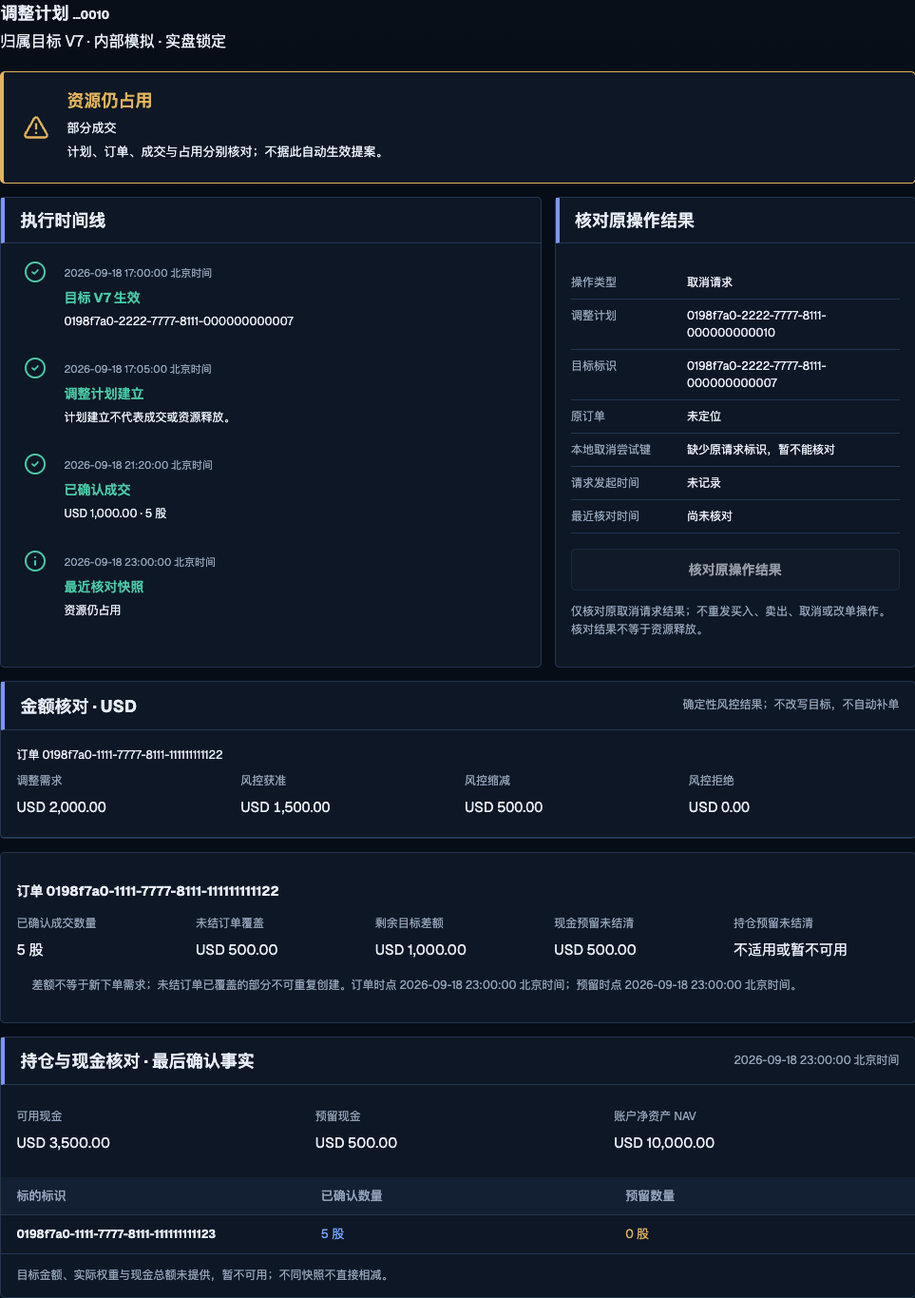
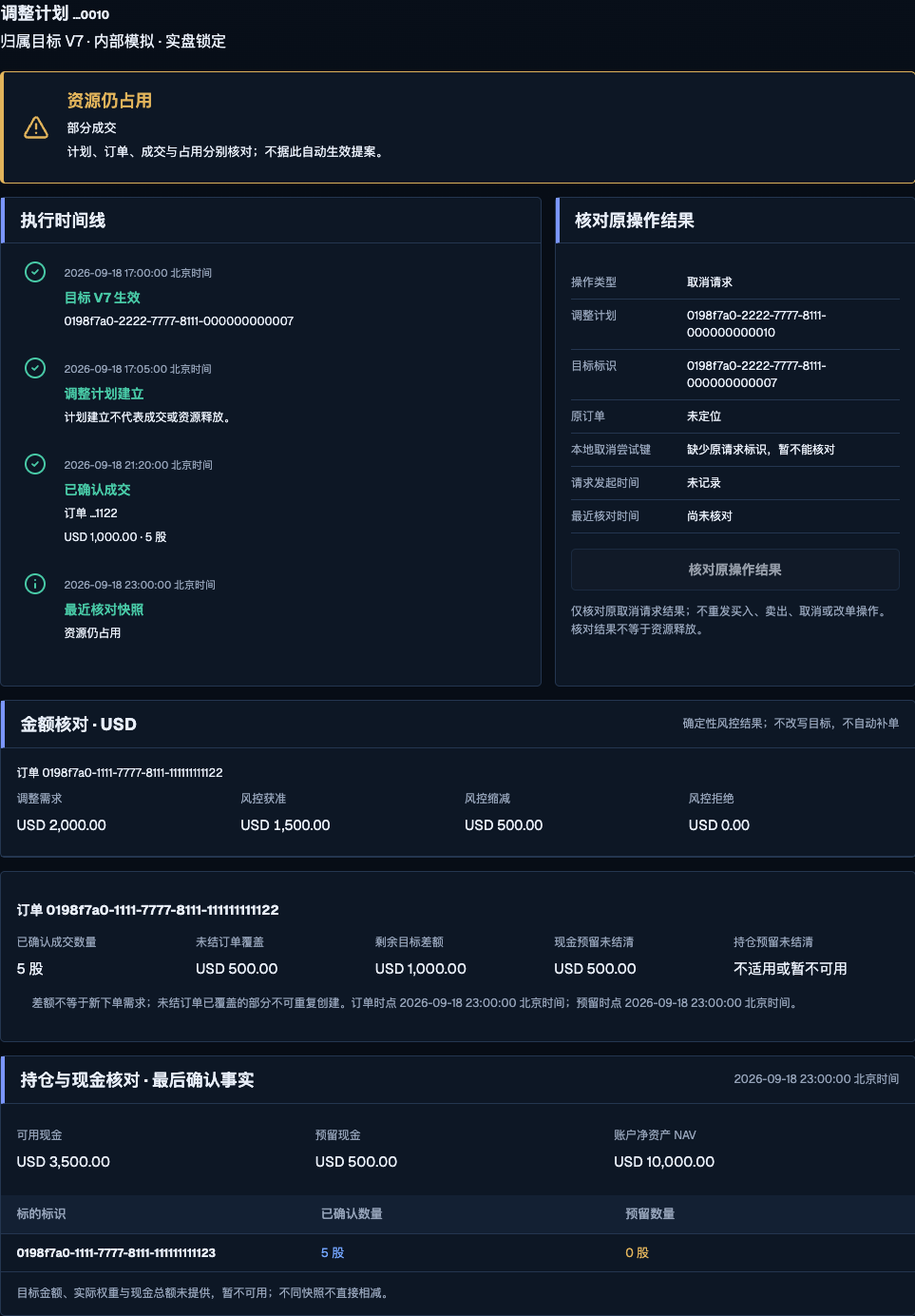
fix: preserve portfolio readback identity and ordering

diff --git a/app/components/paper/adjustment-plan.tsx b/app/components/paper/adjustment-plan.tsx
@@ -3,6 +3,7 @@ import { AlertTriangle, CheckCircle2, Info } from "lucide-react";
 import { useEffect, useState } from "react";
 import type { components } from "../../lib/generated/schema";
 import { statusLabel } from "../../lib/display-labels";
+import { formatPercent } from "../../lib/display-format";
 import { formatPaperDecimal, formatPaperTime } from "../order-timeline";
 import { CancelResultCheck, type CancelAttempt } from "./cancel-result-check";
 type Plan = components["schemas"]["PaperPlanResponse"];
@@ -12,6 +13,7 @@ const money = (value: string | null): string => value === null ? "暂不可用" 
 
 export function AdjustmentPlanLoader({ refreshVersion = 0, attempt = null }: { refreshVersion?: number; attempt?: CancelAttempt | null }): React.ReactElement {
   const [plan, setPlan] = useState<Plan | null>(null);
+  const [currentTarget, setCurrentTarget] = useState<Summary["current_target"]>(null);
   const [message, setMessage] = useState("正在读取调整计划");
   useEffect(() => {
     const controller = new AbortController();
@@ -21,36 +23,46 @@ export function AdjustmentPlanLoader({ refreshVersion = 0, attempt = null }: { r
         let id = requestedId;
         if (!id) {
           const response = await fetch("/api/v1/paper/management/portfolio", { cache: "no-store", signal: controller.signal });
-          if (response.status === 401 || response.status === 403) { if (!controller.signal.aborted) { setPlan(null); setMessage("无权读取调整计划"); } return; }
+          if (response.status === 401 || response.status === 403) { if (!controller.signal.aborted) { setPlan(null); setCurrentTarget(null); setMessage("无权读取调整计划"); } return; }
           if (!response.ok) throw new Error("summary unavailable");
           const envelope = await response.json() as { data: Summary };
           id = envelope.data.occupying_plan?.batch_id ?? null;
+          if (!controller.signal.aborted) setCurrentTarget(id ? null : envelope.data.current_target);
         }
         if (!id) { if (!controller.signal.aborted) { setPlan(null); setMessage("暂无资源占用中的调整计划；历史记录见下方。"); } return; }
         const response = await fetch(`/api/v1/paper/plans/${encodeURIComponent(id)}`, { cache: "no-store", signal: controller.signal });
-        if (response.status === 401 || response.status === 403) { if (!controller.signal.aborted) { setPlan(null); setMessage("无权读取调整计划"); } return; }
+        if (response.status === 401 || response.status === 403) { if (!controller.signal.aborted) { setPlan(null); setCurrentTarget(null); setMessage("无权读取调整计划"); } return; }
         if (!response.ok) throw new Error("plan unavailable");
         const envelope = await response.json() as { data?: Plan };
         if (!envelope.data || envelope.data.batch_id !== id || !Array.isArray(envelope.data.plan?.items)) throw new Error("plan mismatch");
-        if (!controller.signal.aborted) { setPlan(envelope.data); setMessage(""); }
+        if (!controller.signal.aborted) { setPlan(envelope.data); setCurrentTarget(null); setMessage(""); }
       } catch { if (!controller.signal.aborted) setMessage("调整计划暂不可用；已有事实仅为最后已知记录。"); }
     }
     void read(); return () => controller.abort();
   }, [refreshVersion]);
-  return <>{message ? <p className="pm-footnote">{message}</p> : null}{plan ? <AdjustmentPlan plan={plan} attempt={attempt} /> : null}</>;
+  return <>{message ? <p className="pm-footnote">{message}</p> : null}{plan ? <AdjustmentPlan plan={plan} attempt={attempt} /> : currentTarget ? <CurrentTargetDetail target={currentTarget} /> : null}</>;
+}
+
+function CurrentTargetDetail({ target }: { target: NonNullable<Summary["current_target"]> }): React.ReactElement {
+  return <section className="pm-panel" aria-label="当前目标详情">
+    <header className="pm-panel__heading"><h2>当前目标 V{target.version_seq}</h2><p>当前无资源占用计划；不据此推断无需交易、计划已结清或目标已达成。</p></header>
+    <table className="pm-table" aria-label="当前目标确定性配置"><thead><tr><th scope="col">标的标识</th><th scope="col">目标权重</th></tr></thead><tbody>{target.targets.map((row) => <tr key={row.instrument_id}><th scope="row" title={row.instrument_id}>标的 …{row.instrument_id.slice(-4)}</th><td data-label="目标权重">{formatPercent(row.target_weight)}</td></tr>)}<tr><th scope="row">现金</th><td data-label="目标现金权重">{formatPercent(target.cash_weight)}</td></tr></tbody></table>
+    <div className="pm-panel__body"><p>目标生效时点 {formatPaperTime(target.as_of)}</p><p className="pm-id">目标完整标识：{target.target_version_id}</p><p>权重分母：本目标完整配置。实际账户是独立快照，不计算目标金额或实际权重，也不跨快照相减。</p><a className="button button--quiet" href="#paper-actual-facts">查看独立实际账户事实</a></div>
+  </section>;
 }
 
 export function AdjustmentPlan({ plan, attempt = null }: { plan: Plan; attempt?: CancelAttempt | null }): React.ReactElement {
   const boundAttempt = attempt && plan.plan.items.some((item) => item.order_id === attempt.orderId) ? attempt : null;
+  const fills = plan.plan.items.flatMap((item) => item.confirmed_fills.map((fill) => ({ fill, orderId: item.order_id }))).sort((a, b) => Date.parse(a.fill.as_of) - Date.parse(b.fill.as_of));
   return <section className="pm-stack pm-adjustment" aria-label="当前调整计划">
     <header className="pm-plan-title"><h2>调整计划 <span className="pm-id" title={plan.batch_id}>…{plan.batch_id.slice(-4)}</span></h2><p>{plan.target ? `归属目标 V${plan.target.version_seq}` : "历史记录/未关联目标"} · 内部模拟 · 实盘锁定</p></header>
     <div className="pm-conclusion" role="note" aria-label="计划与资源结论"><AlertTriangle size={28} aria-hidden="true" /><div><h3>{occupationLabel(plan.plan.occupation_state)}</h3><p>{plan.plan.items.map((item) => item.status ? statusLabel(item.status) : "订单结果未知").join(" · ") || "未提供订单事实"}{boundAttempt ? " · 原取消结果待核对" : ""}</p><p>计划、订单、成交与占用分别核对；不据此自动生效提案。</p></div></div>
-    <div className="pm-plan-grid"><section className="pm-panel pm-timeline" aria-labelledby="plan-timeline-title"><header className="pm-panel__heading"><h2 id="plan-timeline-title">执行时间线</h2></header><ol>
+    <div className="pm-plan-grid"><CancelResultCheck attempt={boundAttempt} planId={plan.batch_id} targetId={plan.target?.target_version_id} /><section className="pm-panel pm-timeline" aria-labelledby="plan-timeline-title"><header className="pm-panel__heading"><h2 id="plan-timeline-title">执行时间线</h2></header><ol>
       {plan.target ? <li><CheckCircle2 aria-hidden="true" /><div><time>{formatPaperTime(plan.target.as_of)}</time><h3>目标 V{plan.target.version_seq} 生效</h3><p className="pm-id">{plan.target.target_version_id}</p></div></li> : null}
       <li><CheckCircle2 aria-hidden="true" /><div><time>{formatPaperTime(plan.plan.plan_created_at)}</time><h3>调整计划建立</h3><p>计划建立不代表成交或资源释放。</p></div></li>
-      {plan.plan.items.flatMap((item) => item.confirmed_fills.map((fill) => <li key={fill.fill_id}><CheckCircle2 aria-hidden="true" /><div><time>{formatPaperTime(fill.as_of)}</time><h3>已确认成交</h3><p>{money(fill.notional_usd)} · {formatPaperDecimal(fill.quantity)} 股</p></div></li>))}
+      {fills.map(({ fill, orderId }) => <li key={fill.fill_id}><CheckCircle2 aria-hidden="true" /><div><time dateTime={fill.as_of}>{formatPaperTime(fill.as_of)}</time><h3>已确认成交</h3><p title={orderId}>订单 …{orderId.slice(-4)}</p><p>{money(fill.notional_usd)} · {formatPaperDecimal(fill.quantity)} 股</p></div></li>)}
       <li><Info aria-hidden="true" /><div><time>{formatPaperTime(plan.plan.reconciliation_as_of)}</time><h3>最近核对快照</h3><p>{occupationLabel(plan.plan.occupation_state)}</p></div></li>
-    </ol></section><CancelResultCheck attempt={boundAttempt} planId={plan.batch_id} targetId={plan.target?.target_version_id} /></div>
+    </ol></section></div>
     <section className="pm-panel" aria-labelledby="plan-amount-title"><header className="pm-panel__heading"><h2 id="plan-amount-title">金额核对 · USD</h2><p>确定性风控结果；不改写目标，不自动补单</p></header>{plan.plan.risk.map((risk) => <div className="pm-amount-row" key={risk.order_id}><p className="pm-id">订单 {risk.order_id}</p><dl className="pm-amounts">{[["调整需求", risk.desired_amount_usd], ["风控获准", risk.approved_amount_usd], ["风控缩减", risk.reduced_amount_usd], ["风控拒绝", risk.rejected_amount_usd]].map(([label, value]) => <div key={label}><dt>{label}</dt><dd className="numeric-data">{money(value)}</dd></div>)}</dl></div>)}</section>
     {plan.plan.items.map((item) => <section className="pm-panel pm-panel__body" key={item.order_id} aria-label={`订单核对 ${item.order_id}`}><h3 className="pm-id">订单 {item.order_id}</h3><dl className="pm-amounts"><div><dt>已确认成交数量</dt><dd>{formatPaperDecimal(item.confirmed_fill_quantity)} 股</dd></div><div><dt>未结订单覆盖</dt><dd>{money(item.open_order_coverage_amount_usd)}</dd></div><div><dt>剩余目标差额</dt><dd>{money(item.remaining_target_gap_amount_usd)}</dd></div><div><dt>现金预留未结清</dt><dd>{money(item.cash_reservation_outstanding)}</dd></div><div><dt>持仓预留未结清</dt><dd>{item.position_reservation_outstanding === null ? "不适用或暂不可用" : `${formatPaperDecimal(item.position_reservation_outstanding)} 股`}</dd></div></dl><p className="pm-footnote">差额不等于新下单需求；未结订单已覆盖的部分不可重复创建。订单时点 {item.order_as_of ? formatPaperTime(item.order_as_of) : "未知"}；预留时点 {item.reservation_as_of ? formatPaperTime(item.reservation_as_of) : "未知"}。</p></section>)}
     <section className="pm-panel" aria-labelledby="plan-actual-title"><header className="pm-panel__heading"><h2 id="plan-actual-title">持仓与现金核对 · 最后确认事实</h2><p>{plan.actual.as_of ? formatPaperTime(plan.actual.as_of) : "快照时点未知"}</p></header><dl className="pm-amounts pm-panel__body"><div><dt>可用现金</dt><dd>{money(plan.actual.available_cash)}</dd></div><div><dt>预留现金</dt><dd>{money(plan.actual.reserved_cash)}</dd></div><div><dt>账户净资产 NAV</dt><dd>{money(plan.actual.nav)}</dd></div></dl><table className="pm-table" aria-label="计划实际持仓"><thead><tr><th scope="col">标的标识</th><th scope="col">已确认数量</th><th scope="col">预留数量</th></tr></thead><tbody>{plan.actual.positions?.map((position) => <tr key={position.instrument_id}><th scope="row" className="pm-id">{position.instrument_id}</th><td data-label="已确认数量">{formatPaperDecimal(position.quantity)} 股</td><td data-label="预留数量">{formatPaperDecimal(position.reserved_quantity)} 股</td></tr>)}</tbody></table>{plan.actual.positions === null ? <p className="pm-footnote">持仓事实暂不可用</p> : null}<p className="pm-footnote">目标金额、实际权重与现金总额未提供，暂不可用；不同快照不直接相减。</p></section>

diff --git a/tests/unit/paper/page.test.tsx b/tests/unit/paper/page.test.tsx
@@ -2,6 +2,7 @@ import { act, fireEvent, render, screen, waitFor, within } from "@testing-librar
 import { afterEach, describe, expect, it, vi } from "vitest";
 import { managementPlan, managementSummary, cancelRead } from "./management-fixtures";
 import { CancelResultCheck } from "../../../app/components/paper/cancel-result-check";
+import { AdjustmentPlan, AdjustmentPlanLoader } from "../../../app/components/paper/adjustment-plan";
 
 import PaperPage, { PaperPanel } from "../../../app/(protected)/paper/page";
 import { AgentPaperCycle, AgentPaperSessionSummary, AgentPaperVersionHistory } from "../../../app/components/agent-paper-cycle";
@@ -32,6 +33,36 @@ function evaluationSlots(paired = 0): Array<Record<string, unknown>> {
 }
 
 describe("internal paper page", () => {
+  it("keeps current target details reachable without inventing an occupying plan", async () => {
+    const fetcher = vi.fn(async () => Response.json({ data: { ...managementSummary, occupying_plan: null }, meta: meta() }));
+    vi.stubGlobal("fetch", fetcher);
+    render(<AdjustmentPlanLoader />);
+    const target = await screen.findByRole("region", { name: "当前目标详情" });
+    expect(target).toHaveTextContent("目标 V7");
+    expect(target).toHaveTextContent("20%");
+    expect(target).toHaveTextContent("80%");
+    expect(target).toHaveTextContent("当前无资源占用计划");
+    expect(within(target).getByRole("link", { name: "查看独立实际账户事实" })).toHaveAttribute("href", "#paper-actual-facts");
+    expect(screen.queryByRole("region", { name: "当前调整计划" })).not.toBeInTheDocument();
+    expect(fetcher).toHaveBeenCalledTimes(1);
+  });
+  it("sorts interleaved multi-order fills by fact time with unambiguous order identity", () => {
+    const value = structuredClone(managementPlan);
+    const first = value.plan.items[0];
+    first.confirmed_fills = [{ ...first.confirmed_fills[0], fill_id: "late", as_of: "2026-09-18T14:00:00Z" }];
+    value.plan.items.push({ ...structuredClone(first), order_id: filledOrder.order_id, confirmed_fills: [{ ...first.confirmed_fills[0], fill_id: "early", as_of: "2026-09-18T12:00:00Z" }, { ...first.confirmed_fills[0], fill_id: "middle", as_of: "2026-09-18T13:00:00Z" }] });
+    render(<AdjustmentPlan plan={value} />);
+    const rows = screen.getAllByRole("heading", { name: "已确认成交" }).map((heading) => heading.closest("li")!);
+    expect(rows.map((row) => row.querySelector("time")?.dateTime)).toEqual(["2026-09-18T12:00:00Z", "2026-09-18T13:00:00Z", "2026-09-18T14:00:00Z"]);
+    expect(within(rows[0]).getByTitle(filledOrder.order_id)).toHaveTextContent("订单");
+    expect(within(rows[2]).getByTitle(cancellableOrder.order_id)).toHaveTextContent("订单");
+  });
+  it("places original-operation checks before the timeline in DOM reading order", () => {
+    render(<AdjustmentPlan plan={managementPlan} />);
+    const check = screen.getByRole("heading", { name: "核对原操作结果" });
+    const timeline = screen.getByRole("heading", { name: "执行时间线" });
+    expect(check.compareDocumentPosition(timeline) & Node.DOCUMENT_POSITION_FOLLOWING).toBeTruthy();
+  });
   it("isolates a late original-operation read after changing the selected order", async () => {
     let resolveFirst!: (value: Response) => void;
     vi.stubGlobal("fetch", vi.fn(() => new Promise<Response>((resolve) => { resolveFirst = resolve; })));

diff --git a/tests/unit/paper/management-fixtures.ts b/tests/unit/paper/management-fixtures.ts
@@ -10,7 +10,7 @@ export const managementDetail: components["schemas"]["AgentPaperManagementCycleR
   synthesis: { synthesis_run_id: managementId(3), synthesis_output_id: managementId(4), candidate_batch_id: managementId(1), input_hash: hash, content_hash: hash, binding_hash: hash, status: "completed", as_of: asOf, cash_rationale: "保留现金缓冲，等待替换条件成立。", choices: [{ instrument_id: managementId(9), action: "include", role: "tactical", rank: 1, replaces_instrument_id: null, depends_on_instrument_ids: [], thesis: "拟纳入新的研究候选。", counter_thesis: "估值可能回落。", invalidation: "证据到期后重新校验。" }] },
   proposal: { strategy_decision_id: managementId(8), synthesis_output_id: managementId(4), decision_hash: hash, policy_hash: hash, baseline_target_version_id: managementId(7), initial_approval_id: null, cash_weight: "0.75", as_of: asOf, expires_at: "2026-09-18T20:00:00Z", targets: [{ instrument_id: instrument, target_weight: "0.20", exit: false, role: "core", reason_code: "INHERITED_TARGET", replaces_instrument_id: null, depends_on_instrument_ids: [] }, { instrument_id: managementId(9), target_weight: "0.05", exit: false, role: "tactical", reason_code: "INCLUDE", replaces_instrument_id: null, depends_on_instrument_ids: [] }] },
   active_target: { target_version_id: managementId(7), version_seq: 7, strategy_decision_id: managementId(6), previous_target_version_id: managementId(5), target_content_hash: hash, activation_hash: hash, cash_weight: "0.80", targets: [{ instrument_id: instrument, target_weight: "0.20", exit: false, role: "core", reason_code: "INCLUDE" }], as_of: "2026-09-18T09:00:00Z" },
-  activation_result: { result_code: "TARGET_ACTIVATION_BLOCKED", strategy_decision_id: managementId(8), target_version_id: managementId(7), batch_id: managementId(10), as_of: asOf },
+  activation_result: { result_code: "TARGET_ACTIVATION_BLOCKED", strategy_decision_id: managementId(8), target_version_id: null, batch_id: null, as_of: asOf },
   blocker: { category: "resource_occupied", code: "TARGET_ACTIVATION_BLOCKED", source_stage: "activation", proposal_rejection_code: null, as_of: asOf },
   blocking_plan: { batch_id: managementId(10), target_version_id: managementId(7), strategy_decision_id: managementId(6), decision_hash: hash, plan_created_at: "2026-09-18T09:05:00Z", reconciliation_as_of: asOf, occupation_state: "occupied" }, plan_summary: null,
 };

diff --git a/tests/e2e/paper.spec.ts b/tests/e2e/paper.spec.ts
@@ -2,6 +2,19 @@ import AxeBuilder from "@axe-core/playwright";
 import { expect, test, type Page } from "@playwright/test";
 import { managementSummary, managementPlan } from "../unit/paper/management-fixtures";
 
+test("current target without an occupying plan links to independent actual account facts", async ({ page }) => {
+  await installPaperFixtures(page);
+  await page.route("**/api/v1/paper/management/portfolio", (route) => route.fulfill({ json: { data: { ...managementSummary, occupying_plan: null }, meta: meta() } }));
+  await page.goto("/paper");
+  const target = page.getByRole("region", { name: "当前目标详情" });
+  await expect(target).toContainText("当前无资源占用计划");
+  await expect(target.getByRole("table")).toContainText("80%");
+  await target.getByRole("link", { name: "查看独立实际账户事实" }).click();
+  await expect(page).toHaveURL(/#paper-actual-facts$/);
+  await expect(page.getByRole("region", { name: "独立实际账户事实" })).toBeVisible();
+  await expect(page.getByRole("region", { name: "当前调整计划" })).toHaveCount(0);
+});
+
 for (const viewport of [{ width: 1280, height: 1066 }, { width: 390, height: 844 }]) {
   test(`portfolio plan has separate resource facts at ${viewport.width}`, async ({ page }) => {
     await page.setViewportSize(viewport);
@@ -14,6 +27,12 @@ for (const viewport of [{ width: 1280, height: 1066 }, { width: 390, height: 844
     await expect(plan.getByRole("heading", { name: "调整计划 …0010" })).toBeVisible();
     await expect(plan).toContainText("USD 3,500.00");
     await expect(plan.getByRole("button", { name: "核对原操作结果" })).toBeDisabled();
+    expect(await plan.evaluate((element) => {
+      const check = element.querySelector(".pm-cancel")!;
+      const timeline = element.querySelector(".pm-timeline")!;
+      return Boolean(check.compareDocumentPosition(timeline) & Node.DOCUMENT_POSITION_FOLLOWING);
+    })).toBe(true);
+    if (viewport.width < 768) expect((await plan.locator(".pm-cancel").boundingBox())!.y).toBeLessThan((await plan.locator(".pm-timeline").boundingBox())!.y);
     expect(await page.evaluate(() => document.documentElement.scrollWidth <= window.innerWidth)).toBe(true);
     await page.screenshot({ path: `test-results/task12-paper-${viewport.width}.png` });
     await page.evaluate(() => window.scrollTo(0, 0));

diff --git a/tests/unit/decisions/pages.test.tsx b/tests/unit/decisions/pages.test.tsx
@@ -58,6 +58,20 @@ const summary: CyclePage["summary"] = {
 };
 
 describe("decision records", () => {
+  it("keeps a legacy cycle's research and execution ledger when the account has a current target", () => {
+    const legacy = detail(agentPaperCycle);
+    legacy.active_target = managementDetail.active_target;
+    render(<DecisionDetailPanel state="ready" detail={legacy} onRefresh={vi.fn()} />);
+    expect(screen.getByRole("region", { name: "市场与研究证据" })).toBeVisible();
+    expect(screen.getByRole("region", { name: "订单结论" })).toBeVisible();
+    expect(screen.getByRole("region", { name: "执行结果" })).toBeVisible();
+    expect(screen.queryByRole("heading", { name: "本轮组合取舍" })).not.toBeInTheDocument();
+  });
+  it("uses the producer's blocked activation shape and links only the blocking plan", () => {
+    expect(managementDetail.activation_result?.target_version_id).toBeNull();
+    expect(managementDetail.activation_result?.batch_id).toBeNull();
+    expect(managementDetail.blocking_plan?.batch_id).toBe(managementId(10));
+  });
   it("does not call a resource-blocked proposal completed in the list", () => {
     render(<DecisionsPanel state="ready" page={{ items: [managementDetail.cycle], summary, version_observation: null, version_history: [], version_evaluation: null }} onRefresh={vi.fn()} />);
     expect(screen.getByRole("list", { name: "决策记录" })).toHaveTextContent("提案未生效");

diff --git a/app/(protected)/paper/page.tsx b/app/(protected)/paper/page.tsx
@@ -320,9 +320,11 @@ export function PaperPanel({ state, portfolio, orders, nextCursor, statusFilter,
         {versionEvaluation ? <AgentVersionEvaluation evaluation={versionEvaluation} /> : null}
         <AgentPaperCycle cycles={cycles} unavailable={cycleUnavailable} />
         {state === "partial" || state === "stale" ? <p className="paper-state-warning"><AlertTriangle aria-hidden="true" size={18} />{paperStateDetail(state)}</p> : null}
+        <section id="paper-actual-facts" className="page-stack" aria-label="独立实际账户事实">
         <PerformanceFacts portfolio={portfolio} />
         {portfolio.comparison ? <PaperComparison comparison={portfolio.comparison} /> : null}
         <Positions portfolio={portfolio} />
+        </section>
         <Attributions portfolio={portfolio} />
         <section className="paper-orders" aria-labelledby="paper-orders-title">
           <header className="paper-orders__heading"><div><p className="eyebrow">已保存的订单记录</p><h2 id="paper-orders-title">订单与模拟成交</h2><p>订单状态与可取消性以已保存的最新记录为准。</p></div><label className="paper-orders__filter">订单状态筛选<select value={statusFilter} onChange={(event) => onStatusFilter(event.target.value as "" | OrderStatus)} disabled={loadingMore}>{statusOptions.map(([value, label]) => <option key={value || "all"} value={value}>{label}</option>)}</select></label></header>

diff --git a/app/styles/ui.css b/app/styles/ui.css
@@ -128,6 +128,8 @@
 .pm-evidence > div { display: grid; grid-template-columns: 110px minmax(0, 1fr); padding: 8px 0; gap: 12px; border-bottom: 1px solid var(--color-border); }
 .pm-evidence dd { margin: 0; font-size: 12px; overflow-wrap: anywhere; }
 .pm-plan-grid { display: grid; grid-template-columns: minmax(0, 1.5fr) minmax(0, 1fr); gap: 14px; }
+.pm-plan-grid > .pm-cancel { grid-column: 2; grid-row: 1; }
+.pm-plan-grid > .pm-timeline { grid-column: 1; grid-row: 1; }
 .pm-timeline ol { list-style: none; padding: 18px 24px; margin: 0; }
 .pm-timeline li { display: flex; gap: 18px; margin-bottom: 22px; }
 .pm-timeline li > svg { color: var(--color-positive); flex-shrink: 0; }
@@ -158,7 +160,6 @@
   .pm-table td, .pm-table td.numeric-data { display: flex; gap: 12px; justify-content: space-between; text-align: right; }
   .pm-table td::before { content: attr(data-label); text-align: left; flex: 0 0 44%; color: var(--color-text-muted); font-family: var(--font-geist-sans), "PingFang SC", sans-serif; }
   .pm-plan-grid { display: flex; flex-direction: column; }
-  .pm-cancel { order: -1; }
   .pm-summary { align-items: flex-start; flex-direction: column; gap: 10px; }
   .pm-evidence > div { grid-template-columns: 90px minmax(0, 1fr); }
   .pm-agent { padding: 14px; gap: 12px; }

diff --git a/app/(protected)/decisions/[cycleId]/page.tsx b/app/(protected)/decisions/[cycleId]/page.tsx
@@ -46,7 +46,7 @@ export function DecisionDetailPanel({ state, detail, onRefresh }: { state: DataS
   const execution = detail ? executionPresentation(detail.cycle, detail.orders) : null;
   const primary = decision?.candidates[0] ?? null;
   const resultUnknown = execution?.key === "result_unknown" || execution?.key === "unknown";
-  const management = detail && Boolean(detail.candidate_batch || detail.proposal || detail.active_target || detail.blocker || detail.synthesis);
+  const management = detail && Boolean(detail.candidate_batch || detail.proposal || detail.blocker || detail.synthesis || detail.activation_result || detail.plan_summary || detail.blocking_plan);
   return <section className="decision-detail-page" data-state={state} aria-label="决策详情页面">
     {/* vinext client routes use native anchors here; next/link currently duplicates React at runtime. */}
     {/* eslint-disable-next-line @next/next/no-html-link-for-pages */}

diff --git a/design-qa.md b/design-qa.md
@@ -2,7 +2,7 @@
 
 final result: blocked
 
-The selected direction is implemented and the four-file functional e2e suite passes (30/30); full unit verification passes (1090 passed, 1 skipped). Exact source-state visual acceptance remains blocked. The current Task 11 read contract cannot reproduce all the reference facts. No demonstration values, inferred actual weights, target amounts, cash totals, or invented cancellation attempt keys were added to make the screenshots look equivalent.
+The selected direction is implemented and the four-file functional e2e suite passes after independent review corrections (31/31); focused unit verification passes (123 tests). Exact source-state visual acceptance remains blocked. The current Task 11 read contract cannot reproduce all the reference facts. No demonstration values, inferred actual weights, target amounts, cash totals, or invented cancellation attempt keys were added to make the screenshots look equivalent.
 
 ## Comparison targets and evidence
 
@@ -17,12 +17,14 @@ Browser-rendered implementation (relative to project root):
 | --- | --- | --- | --- |
 | Decisions detail, blocked proposal/current V7 | 1280 × 910 | `docs/design/qa/task-12/task12-decisions-1280.png` | `docs/design/qa/task-12/task12-decisions-focused-1280.png`, 963 × 941 |
 | Same decision, mobile | 390 × 844 | `docs/design/qa/task-12/task12-decisions-390.png` | `docs/design/qa/task-12/task12-decisions-focused-390.png`, 358 × 1512 |
-| Paper, occupied partially filled plan | 1280 × 1066 | `docs/design/qa/task-12/task12-paper-1280.png` | `docs/design/qa/task-12/task12-paper-focused-1280.png`, 963 × 1365 |
-| Same plan, mobile | 390 × 844 | `docs/design/qa/task-12/task12-paper-390.png` | `docs/design/qa/task-12/task12-paper-focused-390.png`, 358 × 2281 |
+| Paper, occupied partially filled plan | 1280 × 1066 | `docs/design/qa/task-12/task12-paper-1280.png` | `docs/design/qa/task-12/task12-paper-focused-1280.png`, 963 × 1384 |
+| Same plan, mobile | 390 × 844 | `docs/design/qa/task-12/task12-paper-390.png` | `docs/design/qa/task-12/task12-paper-focused-390.png`, 358 × 2305 |
 
 Chromium, existing Playwright webServer, isolated worktree port 4297, dark theme, authenticated fixture routes. Browser deviceScaleFactor is 1; full screenshot pixel dimensions equal CSS viewport. Sources were viewed at their native pixel dimensions with no density resampling. Mobile has no matching source viewport; it is a responsive adaptation check, not a pixel-match claim. Focused screenshots exclude the unchanged app shell and include the full newly implemented section.
 
-Final capture run: 30/30 e2e tests passed in 55.1s. Full and focused source/implementation evidence was reopened after capture correction; fractional CSS bounding boxes are rounded to the recorded clip pixel dimensions by Chromium. Final lint, typecheck and build passed; vinext retains its existing static route-classification notice.
+Latest post-review capture run: 31/31 e2e tests passed in 44.1s. Sources and updated implementation evidence were reopened together for comparison; fractional CSS bounding boxes are rounded to the recorded clip pixel dimensions by Chromium. The earlier 30/30 capture run is superseded by this review run.
+
+Post-review full unit: 1095 passed, 1 skipped (83 passed /1 skipped files). Fresh lint, typecheck and build all passed. These results do not resolve the source-state/shell fidelity blockers below.
 
 Source and implementation images were opened together in the same tool comparison input for each desktop full-view comparison and for focused content inspection. This was a combined image-input comparison, not a generated side-by-side composite. The focused desktop and mobile screenshots were also opened with the relevant source. Source files are local attachments; implementation evidence is committed in the repository.
 
@@ -47,6 +49,7 @@ Source and implementation images were opened together in the same tool compariso
 2. Mobile tests found a short disclosure tap target and the added unavailable portfolio-summary height. Increased only the disclosure hit area; after confirming the unavailable portfolio state, conditioned that optional summary on actual management facts and removed temporary density adjustments. Re-ran failed viewport tests with unchanged assertions.
 3. Captured the final decisions and paper views at source desktop sizes and 390px mobile, plus focused sections. Reopened source plus implementation in shared comparison inputs. Required fidelity surfaces above were checked. Source-state and global-shell mismatches remain explicitly blocked; neither build success nor test success closes them.
 4. [P2, resolved] Full UUID primary labels made the banner and unknown instruments visually dense. TDD introduced short-label/title assertions (2 expected RED failures), then shortened display text without changing identity values or links; 118 focused unit tests and 30 four-file e2e tests passed. Recaptured desktop/mobile views show `提案 …0008`, `标的 …0009`, `调整计划 …0010`; complete identifiers remain accessible in title/evidence. Focused capture was also corrected from element auto-scroll to a full-page clip, avoiding sticky navigation obscuring the top of the captured component. No layout CSS was changed for capture.
+5. Independent review follow-up: corrected blocked-activation fixtures to null target/batch IDs, retaining the original plan only in `blocking_plan`; rendered decisions remains visually unchanged. Added original-order labels to chronologically sorted fill facts (paper timeline slightly taller). Moved result-check section before timeline in DOM, using desktop grid placement rather than mobile CSS order; the mobile capture and DOM/geometry assertions now agree. Existing typography, colors, icons and responsive cards remain unchanged. The no-occupying-plan state now shows current target configuration and links to independent actual-account facts; its end-to-end navigation is covered, but there is no equivalent source-state mock, so it is not claimed as a visual match. Legacy cycles retain their evidence ledger despite an account-level current target. Five expected unit RED failures and one expected e2e RED preceded the fixes; 123 focused unit and 31 e2e tests pass afterward.
 
 Earlier e2e failures were investigated before rerun: one navigation `ERR_NETWORK_IO_SUSPENDED`, two 30-second timeouts spanning 15.5 minutes. macOS power logs confirmed long Idle Sleep intervals during that run. The original run had no trace configured; exact portfolio timeout step remains unavailable. Each original failure passed independently with trace enabled, all three passed sequentially, and the four-file concurrent run passed while a command-scoped `caffeinate -i` prevented sleep. No retry, timeout extension, assertion relaxation, or system power-setting change was made.
 
